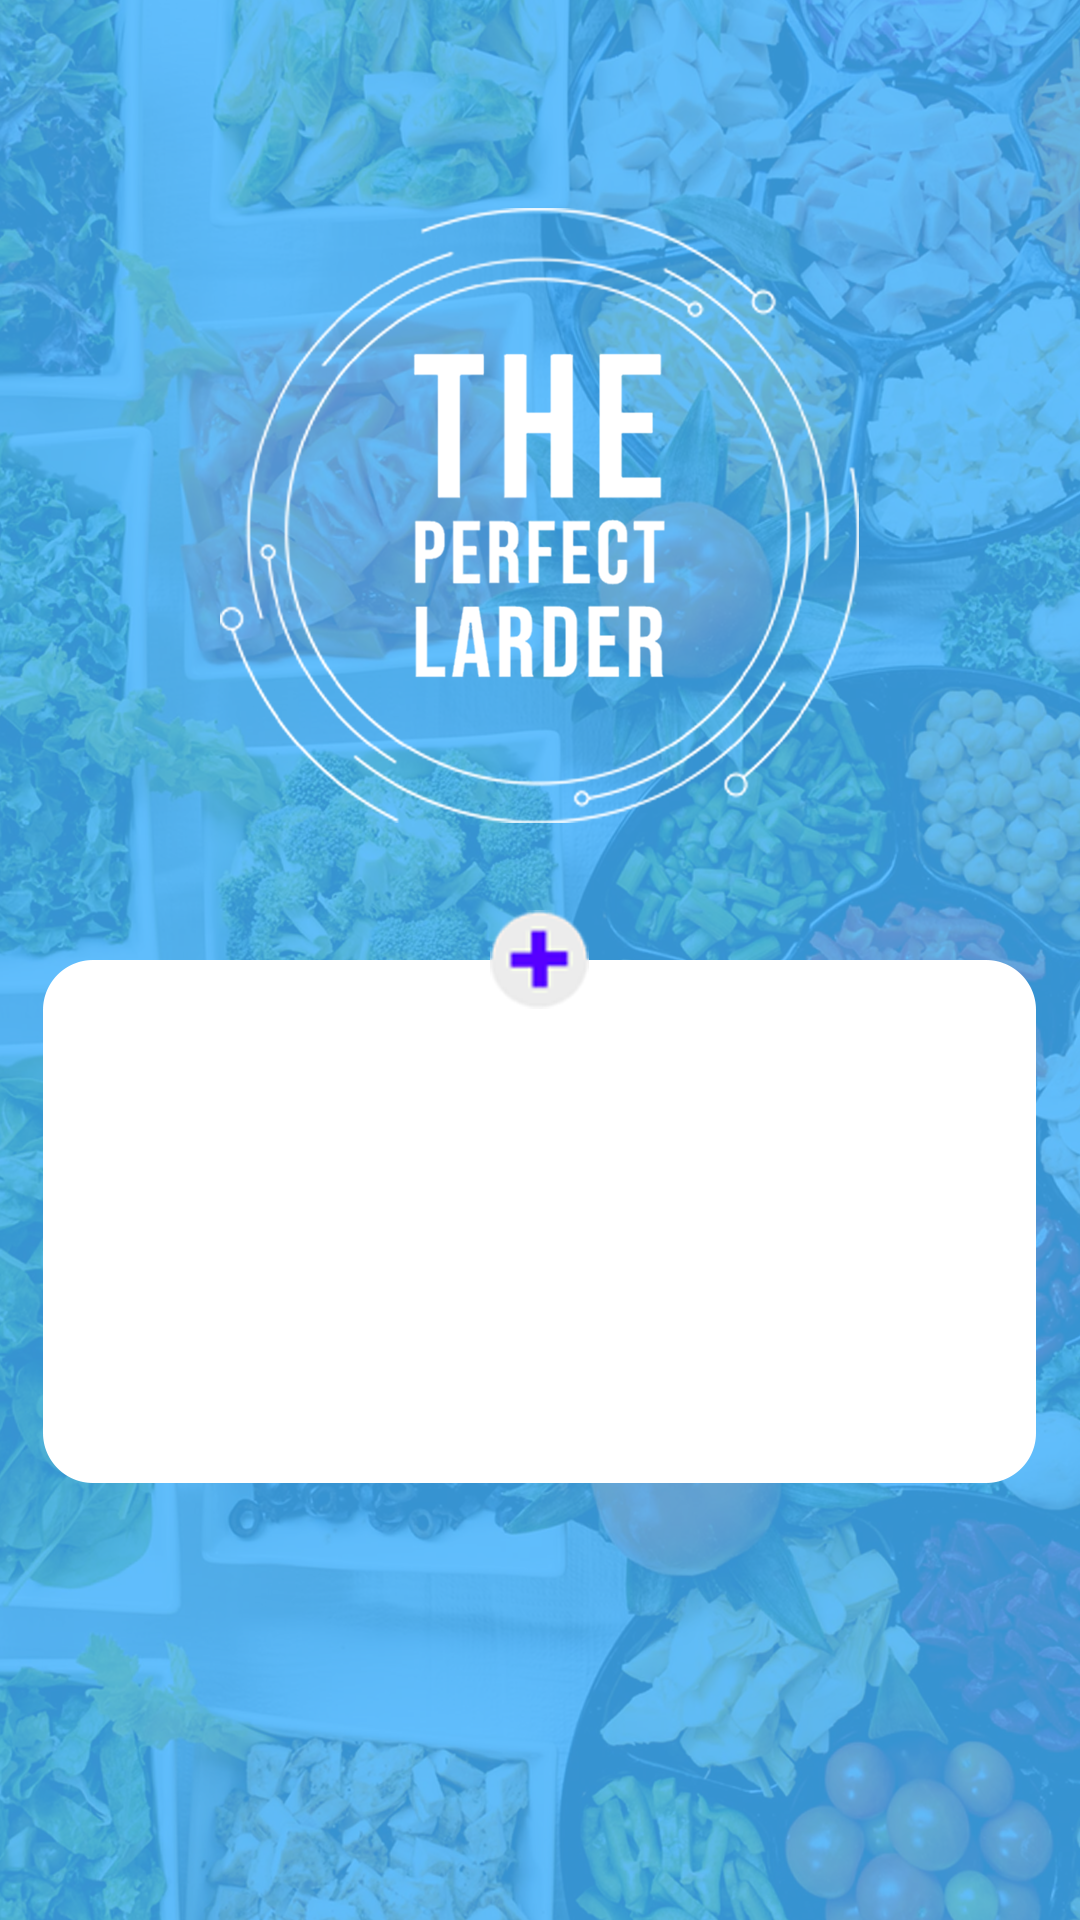
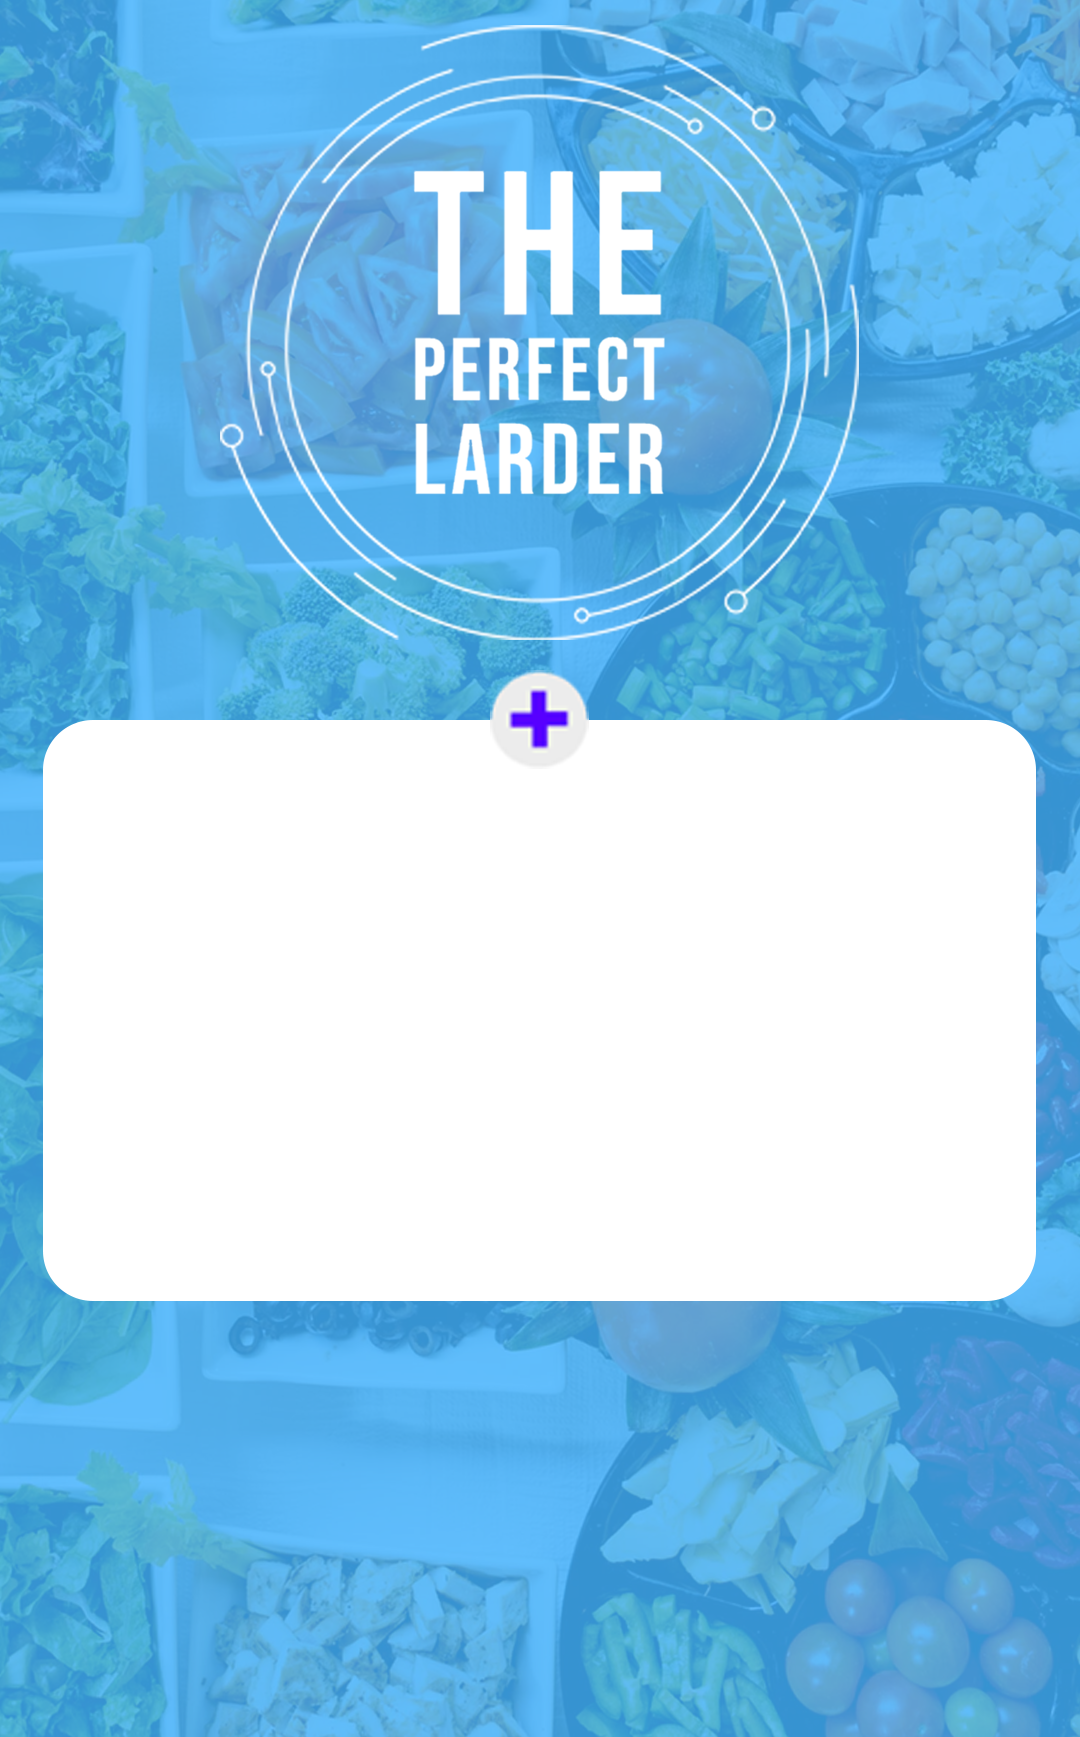
Sizing issues fixed for login and signup screen and all APK issues fixed

diff --git a/application/src/signup.py b/application/src/signup.py
@@ -86,7 +86,7 @@ class SignUp(Screen):
         widget.font_size = 45
         widget.bold = True
         widget.color = (1, 0, 0,0.75)
-        widget.pos_hint = {"top":.65}
+        widget.pos_hint = {"top":.66}
         return widget
 
     # endregion
@@ -96,7 +96,7 @@ class SignUp(Screen):
         widget.font_size = 45
         widget.bold = True
         widget.color = (0, 1, 0,0.75)
-        widget.pos_hint = {"top":.65}
+        widget.pos_hint = {"top":.66}
         return widget
     # region Widgets
     # region Account Creation

diff --git a/application/src/main.py b/application/src/main.py
@@ -9,7 +9,6 @@ import kivy
 kivy.require('1.11.1')
 from kivy.config import Config
 from kivy.core.window import Window
-Window.size = (1080, 1920)
 #Config.set('kivy', 'keyboard_mode','systemandmulti')
 
 from kivy.app import App
